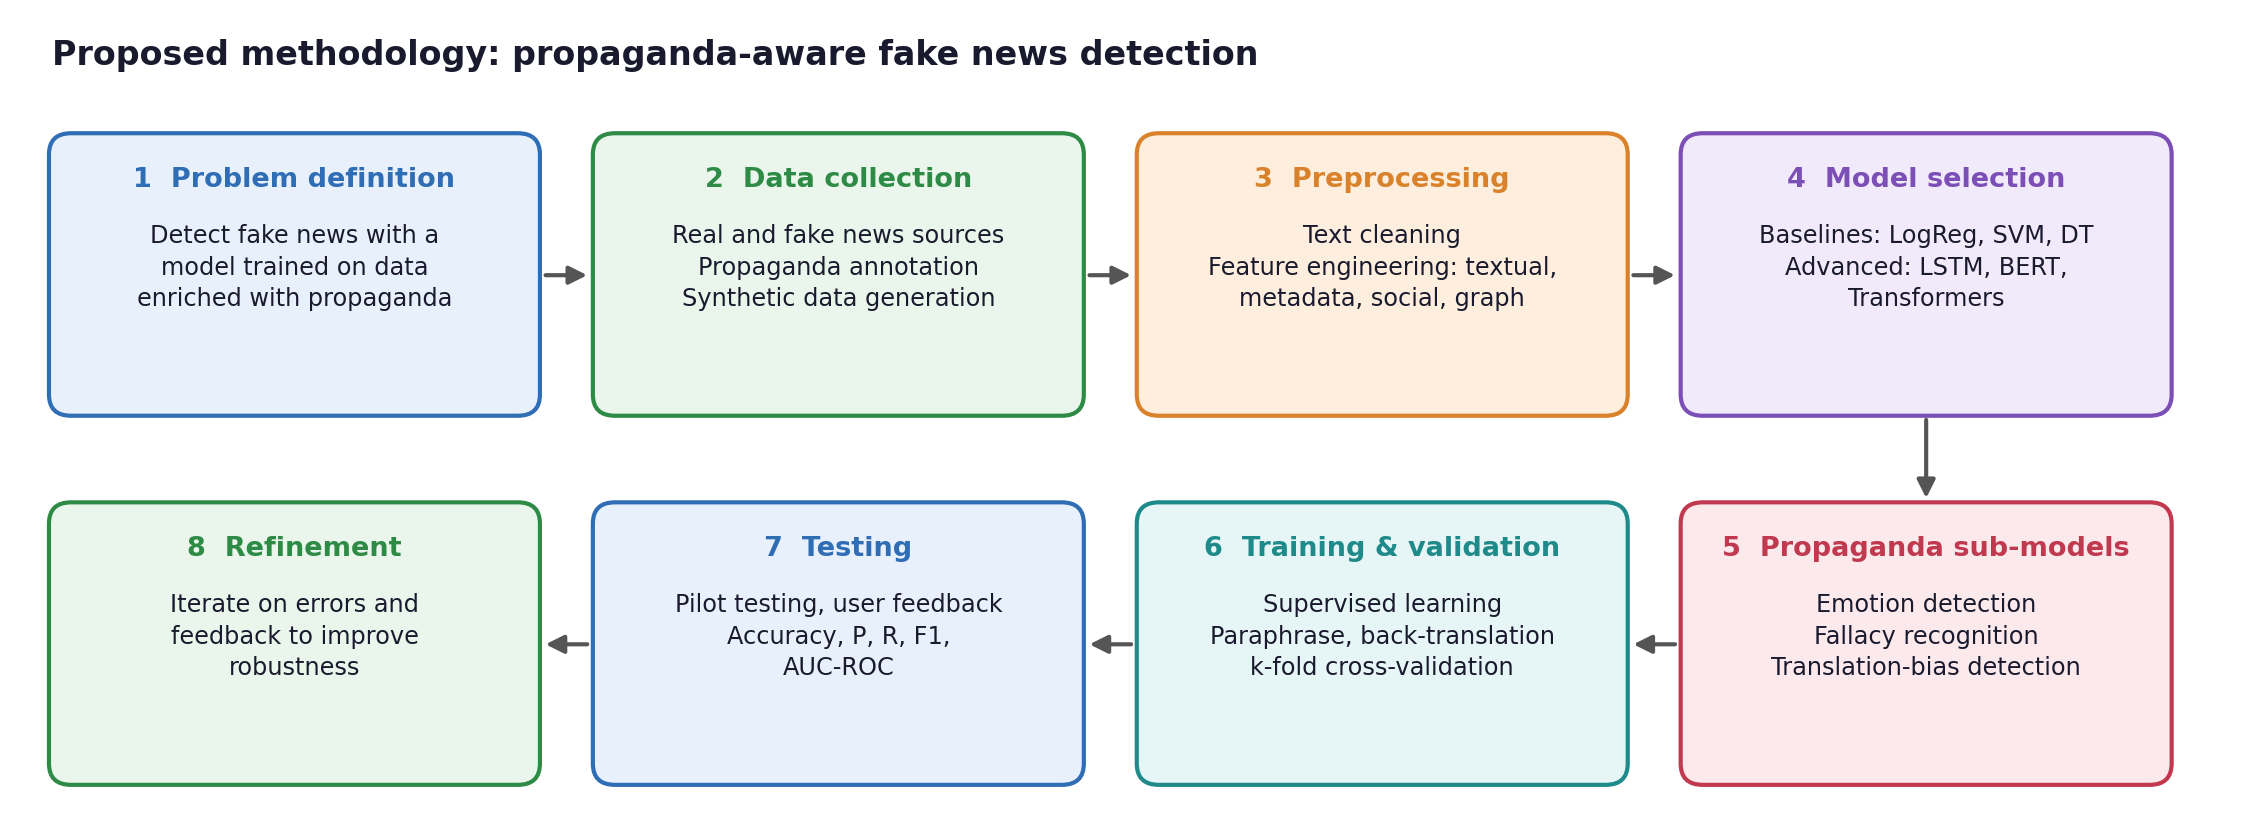
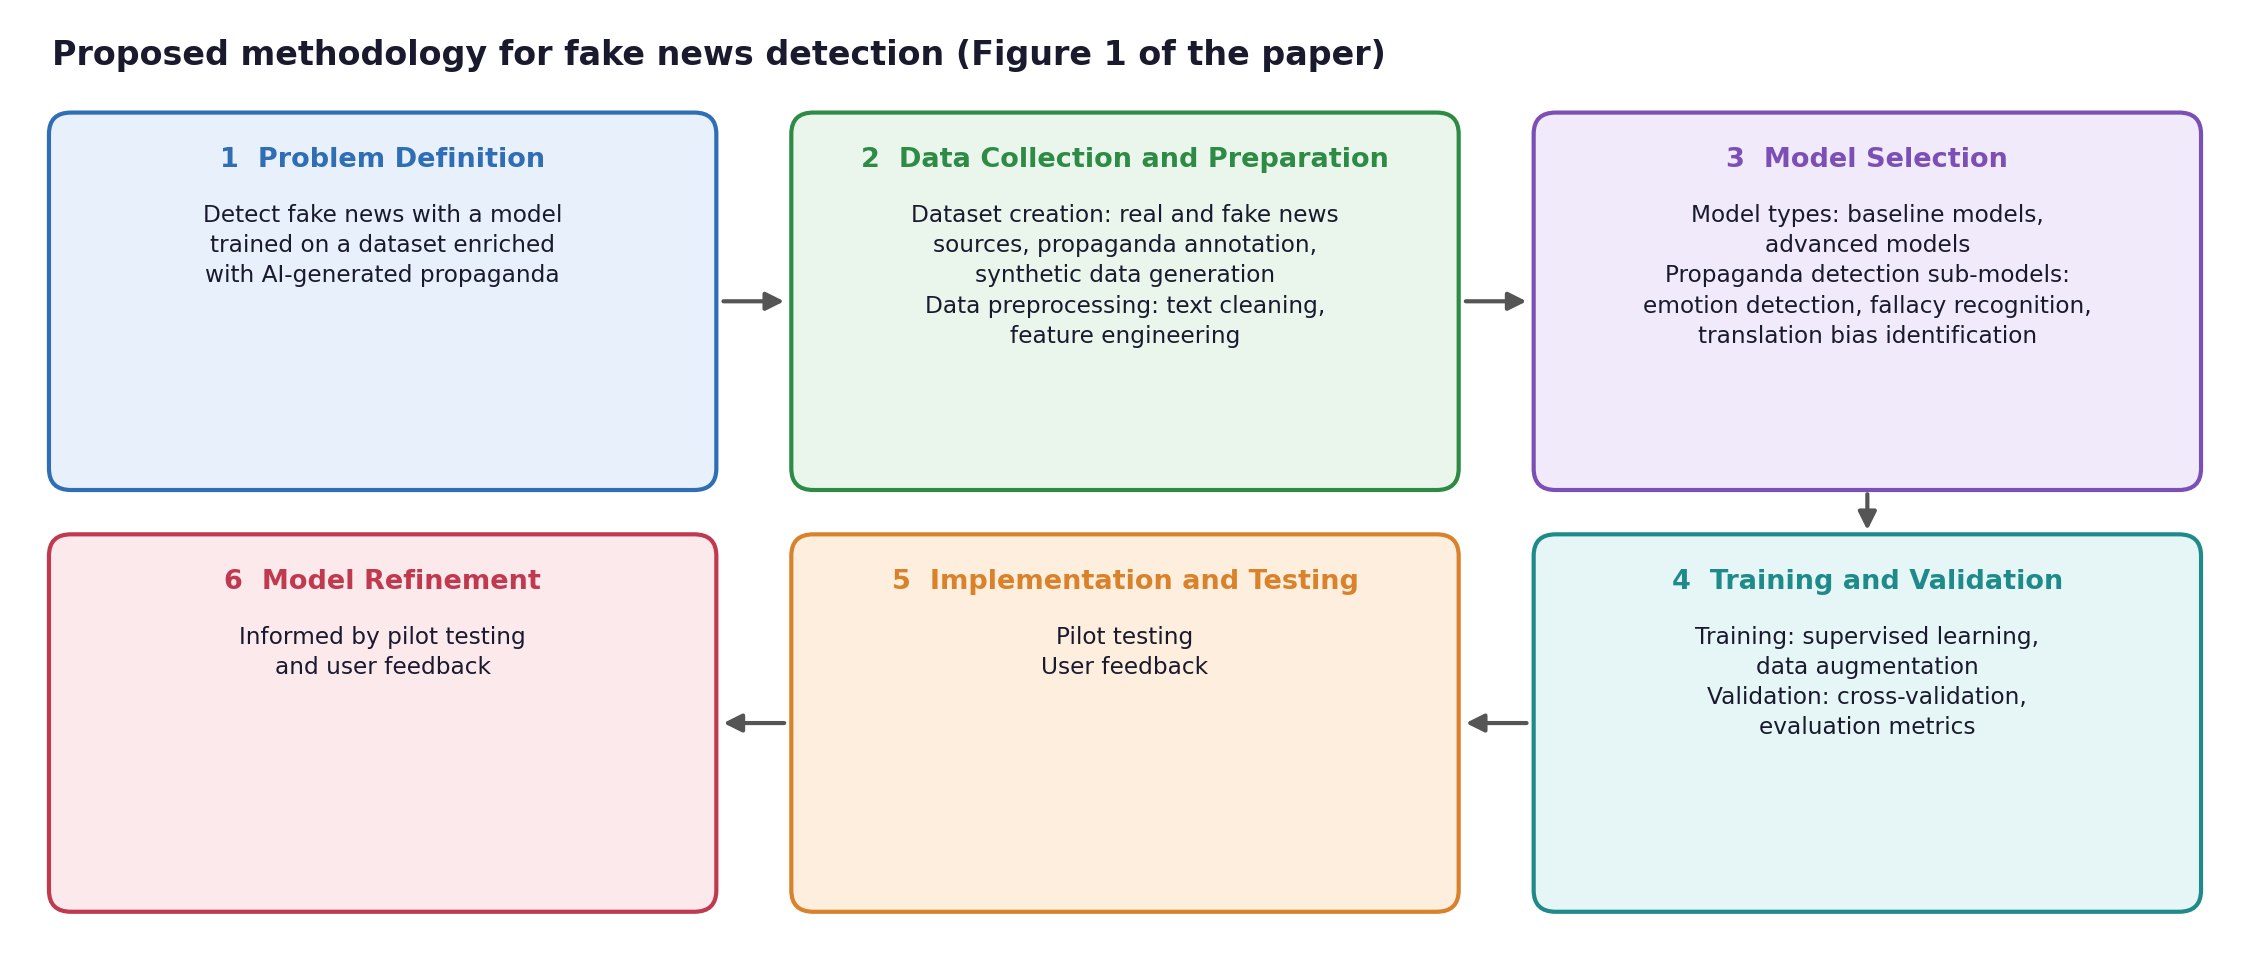
Align methodology diagram and table with Figure 1 of the paper

diff --git a/README.md b/README.md
@@ -61,16 +61,16 @@ fallacies.
 
 ![Proposed methodology](assets/proposed_methodology.png)
 
-| Stage | Details |
+The pipeline follows Figure 1 and Section 6 of the paper.
+
+| Stage | Details from the paper |
 |---|---|
-| **1. Problem definition** | Detect fake news with a model trained on a dataset enriched with propaganda |
-| **2. Data collection** | Balanced verified real and confirmed fake news; propaganda-annotated or synthetic data that mimics real propaganda |
-| **3. Preprocessing and features** | Noise removal, then four feature groups (below) |
-| **4. Model selection** | Baselines (Logistic Regression, SVM, Decision Trees) and advanced models (LSTM, BERT, Transformers) fine-tuned on the propaganda-loaded data |
-| **5. Propaganda sub-models** | Emotion detection for emotionally loaded words, fallacy recognition for typical logical fallacies, translation-bias identification |
-| **6. Training and validation** | Supervised learning with propaganda labels as input features; paraphrasing and back-translation augmentation; k-fold cross-validation |
-| **7. Testing** | Pilot testing and user feedback; accuracy, precision, recall, F1 and AUC-ROC, with emphasis on detecting propaganda |
-| **8. Refinement** | Iterate on errors and feedback |
+| **1. Problem Definition** | Develop a model that detects fake news by training it on a dataset enriched with AI-generated propaganda |
+| **2. Data Collection and Preparation** | *Dataset creation:* a balanced mix of verified real and confirmed fake news from real and fake news sources, propaganda annotation, and synthetic data that mimics the style and substance of real propaganda. *Data preprocessing:* text cleaning to reduce noise, and feature engineering (feature groups below) |
+| **3. Model Selection** | *Model types:* baseline models (Logistic Regression, SVM, Decision Trees) and advanced models (LSTM, BERT, Transformer-based models fine-tuned on the propaganda-loaded dataset). *Propaganda detection sub-models:* emotion detection for emotionally laden words, fallacy recognition for typical logical fallacies, and translation bias identification |
+| **4. Training and Validation** | *Training:* supervised learning on the labelled dataset with propaganda labels as input features; data augmentation through paraphrasing or back-translation. *Validation:* k-fold cross-validation for reliability and against overfitting; evaluation with accuracy, precision, recall, F1-score and AUC-ROC, with special emphasis on detecting propaganda |
+| **5. Implementation and Testing** | Pilot testing and user feedback |
+| **6. Model Refinement** | Final stage, informed by pilot testing and user feedback |
 
 **Feature groups**
 
@@ -101,9 +101,9 @@ fallacies.
 
 ## Related project
 
-The ideas in this paper were later put into practice in
-[German Harmful Content Detection](https://github.com/farhanaliarshad1/german-harmful-content-detection), which
-compares transformers, a multi-task model and LLM prompting for German fake news, hate speech and toxicity.
+[German Harmful Content Detection](https://github.com/farhanaliarshad1/german-harmful-content-detection) is a
+later, hands-on project that compares transformers, a multi-task model and LLM prompting for German fake news,
+hate speech and toxicity.
 
 ## Citation
 
